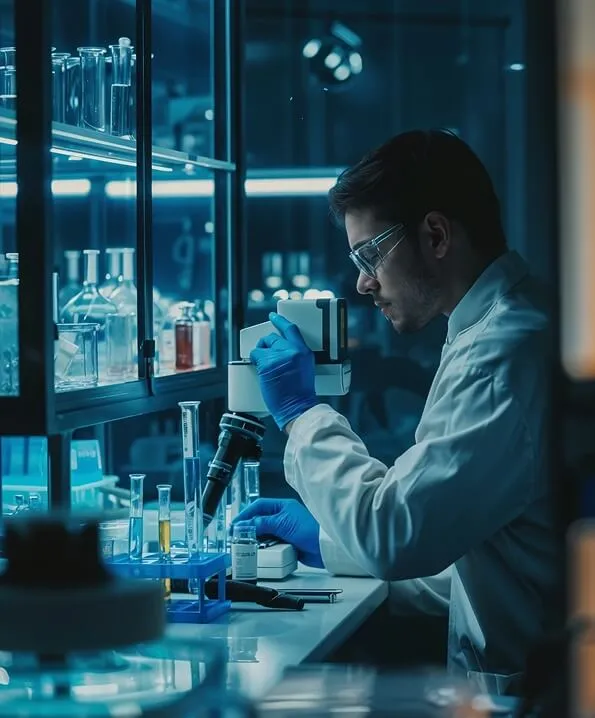
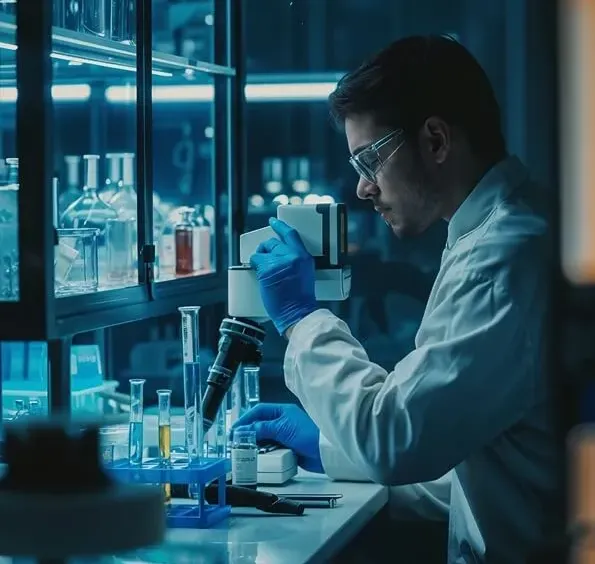
breadcrumb changed

diff --git a/contact.html b/contact.html
@@ -171,24 +171,24 @@ Jeddah 23435-2086, KSA</div>
             
             <div class="col-lg-6">
                 <div class="image-card">
-                    <div class="scientist-image"></div>
-                    <div class="working-hours">
-                        <h3 class="working-hours-title">Working Hours:</h3>
-                        <div class="hours-row">
-                            <span class="hours-day">Mon - Fri:</span>
-                            <span class="hours-time">10:00AM - 07:00PM</span>
-                        </div>
-                        <div class="hours-row">
-                            <span class="hours-day">Saturday:</span>
-                            <span class="hours-time">12:00AM - 05:00PM</span>
-                        </div>
-                        <div class="hours-row">
-                            <span class="hours-day">Sunday:</span>
-                            <span class="hours-time">closed</span>
-                        </div>
-                    </div>
-                </div>
-            </div>
+    <img src="/assets/img/contact-us-image.webp" alt="Scientist working" class="scientist-image-tag">
+    
+    <div class="working-hours">
+        <h3 class="working-hours-title">Working Hours:</h3>
+        <div class="hours-row">
+            <span class="hours-day">Mon - Fri:</span>
+            <span class="hours-time">10:00AM - 07:00PM</span>
+        </div>
+        <div class="hours-row">
+            <span class="hours-day">Saturday:</span>
+            <span class="hours-time">12:00AM - 05:00PM</span>
+        </div>
+        <div class="hours-row">
+            <span class="hours-day">Sunday:</span>
+            <span class="hours-time">closed</span>
+        </div>
+    </div>
+</div>
         </div>
         </div>
     </div>

diff --git a/assets/css/style.css b/assets/css/style.css
@@ -1661,21 +1661,55 @@ footer {
         }
         
         .contact-section .image-card {
-            background: linear-gradient(135deg, #1a4d5c 0%, #0a2432 100%);
-            border-radius: 24px;
-            overflow: hidden;
-            position: relative;
-            height: 100%;
-            min-height: 500px;
-            display: flex;
-            flex-direction: column;
-        }
-        
-        .contact-section .scientist-image {
-            flex: 1;
-            background: url('/assets/img/contact-us-image.webp') center/cover;
-            position: relative;
-        }
+    background: linear-gradient(135deg, #1a4d5c 0%, #0a2432 100%); 
+    border-radius: 24px;
+    overflow: hidden; 
+    position: relative;
+    height: 100%;
+    min-height: 500px;
+    display: flex;
+    flex-direction: column; 
+}
+
+.contact-section .scientist-image-tag { 
+    width: 100%;
+    height: 100%;
+    object-fit: cover; 
+    display: block; 
+    flex-shrink: 0; 
+}
+
+.contact-section .working-hours {
+    padding: 25px; 
+    color: white; 
+    flex-grow: 1; 
+    display: flex;
+    flex-direction: column;
+    justify-content: flex-end; 
+}
+
+.contact-section .working-hours-title {
+    font-size: 1.3rem;
+    margin-bottom: 15px;
+    color: #e0f2f7;
+}
+
+.contact-section .hours-row {
+    display: flex;
+    justify-content: space-between; 
+    margin-bottom: 8px;
+    font-size: 1rem;
+}
+
+.contact-section .hours-day {
+    font-weight: 400;
+    color: #c7e1e1; 
+}
+
+.contact-section .hours-time {
+    font-weight: 500;
+    color: white;
+}
         
         .contact-section .working-hours {
           background-color: #FFFFFF1A;

diff --git a/pharmacovigilance.html b/pharmacovigilance.html
@@ -98,17 +98,17 @@
   <!-- header -->
 
   <section class="breadcrumb-hero">
-        <div class="breadcrumb-content">
-            <h1 class="breadcrumb-title">Pharmacovigilance</h1>
-            <nav class="breadcrumb-nav" aria-label="breadcrumb">
-                <a href="index.html">Home</a>
-                <span class="breadcrumb-separator">/</span>
-                <span class="breadcrumb-current">Pharmacovigilance</span>
-            </nav>
-        </div>
-        
-        
-    </section>
+    <img src="assets/img/breadcrumb.webp" alt="Breadcrumb Background Image" class="hero-background-img">
+    
+    <div class="breadcrumb-content">
+        <h1 class="breadcrumb-title">Contact us</h1>
+        <nav class="breadcrumb-nav" aria-label="breadcrumb">
+            <a href="index.html">Home</a>
+            <span class="breadcrumb-separator">/</span>
+            <span class="breadcrumb-current">Contact Us</span>
+        </nav>
+    </div>
+</section>
     
 
   <section class="faq-section2">
